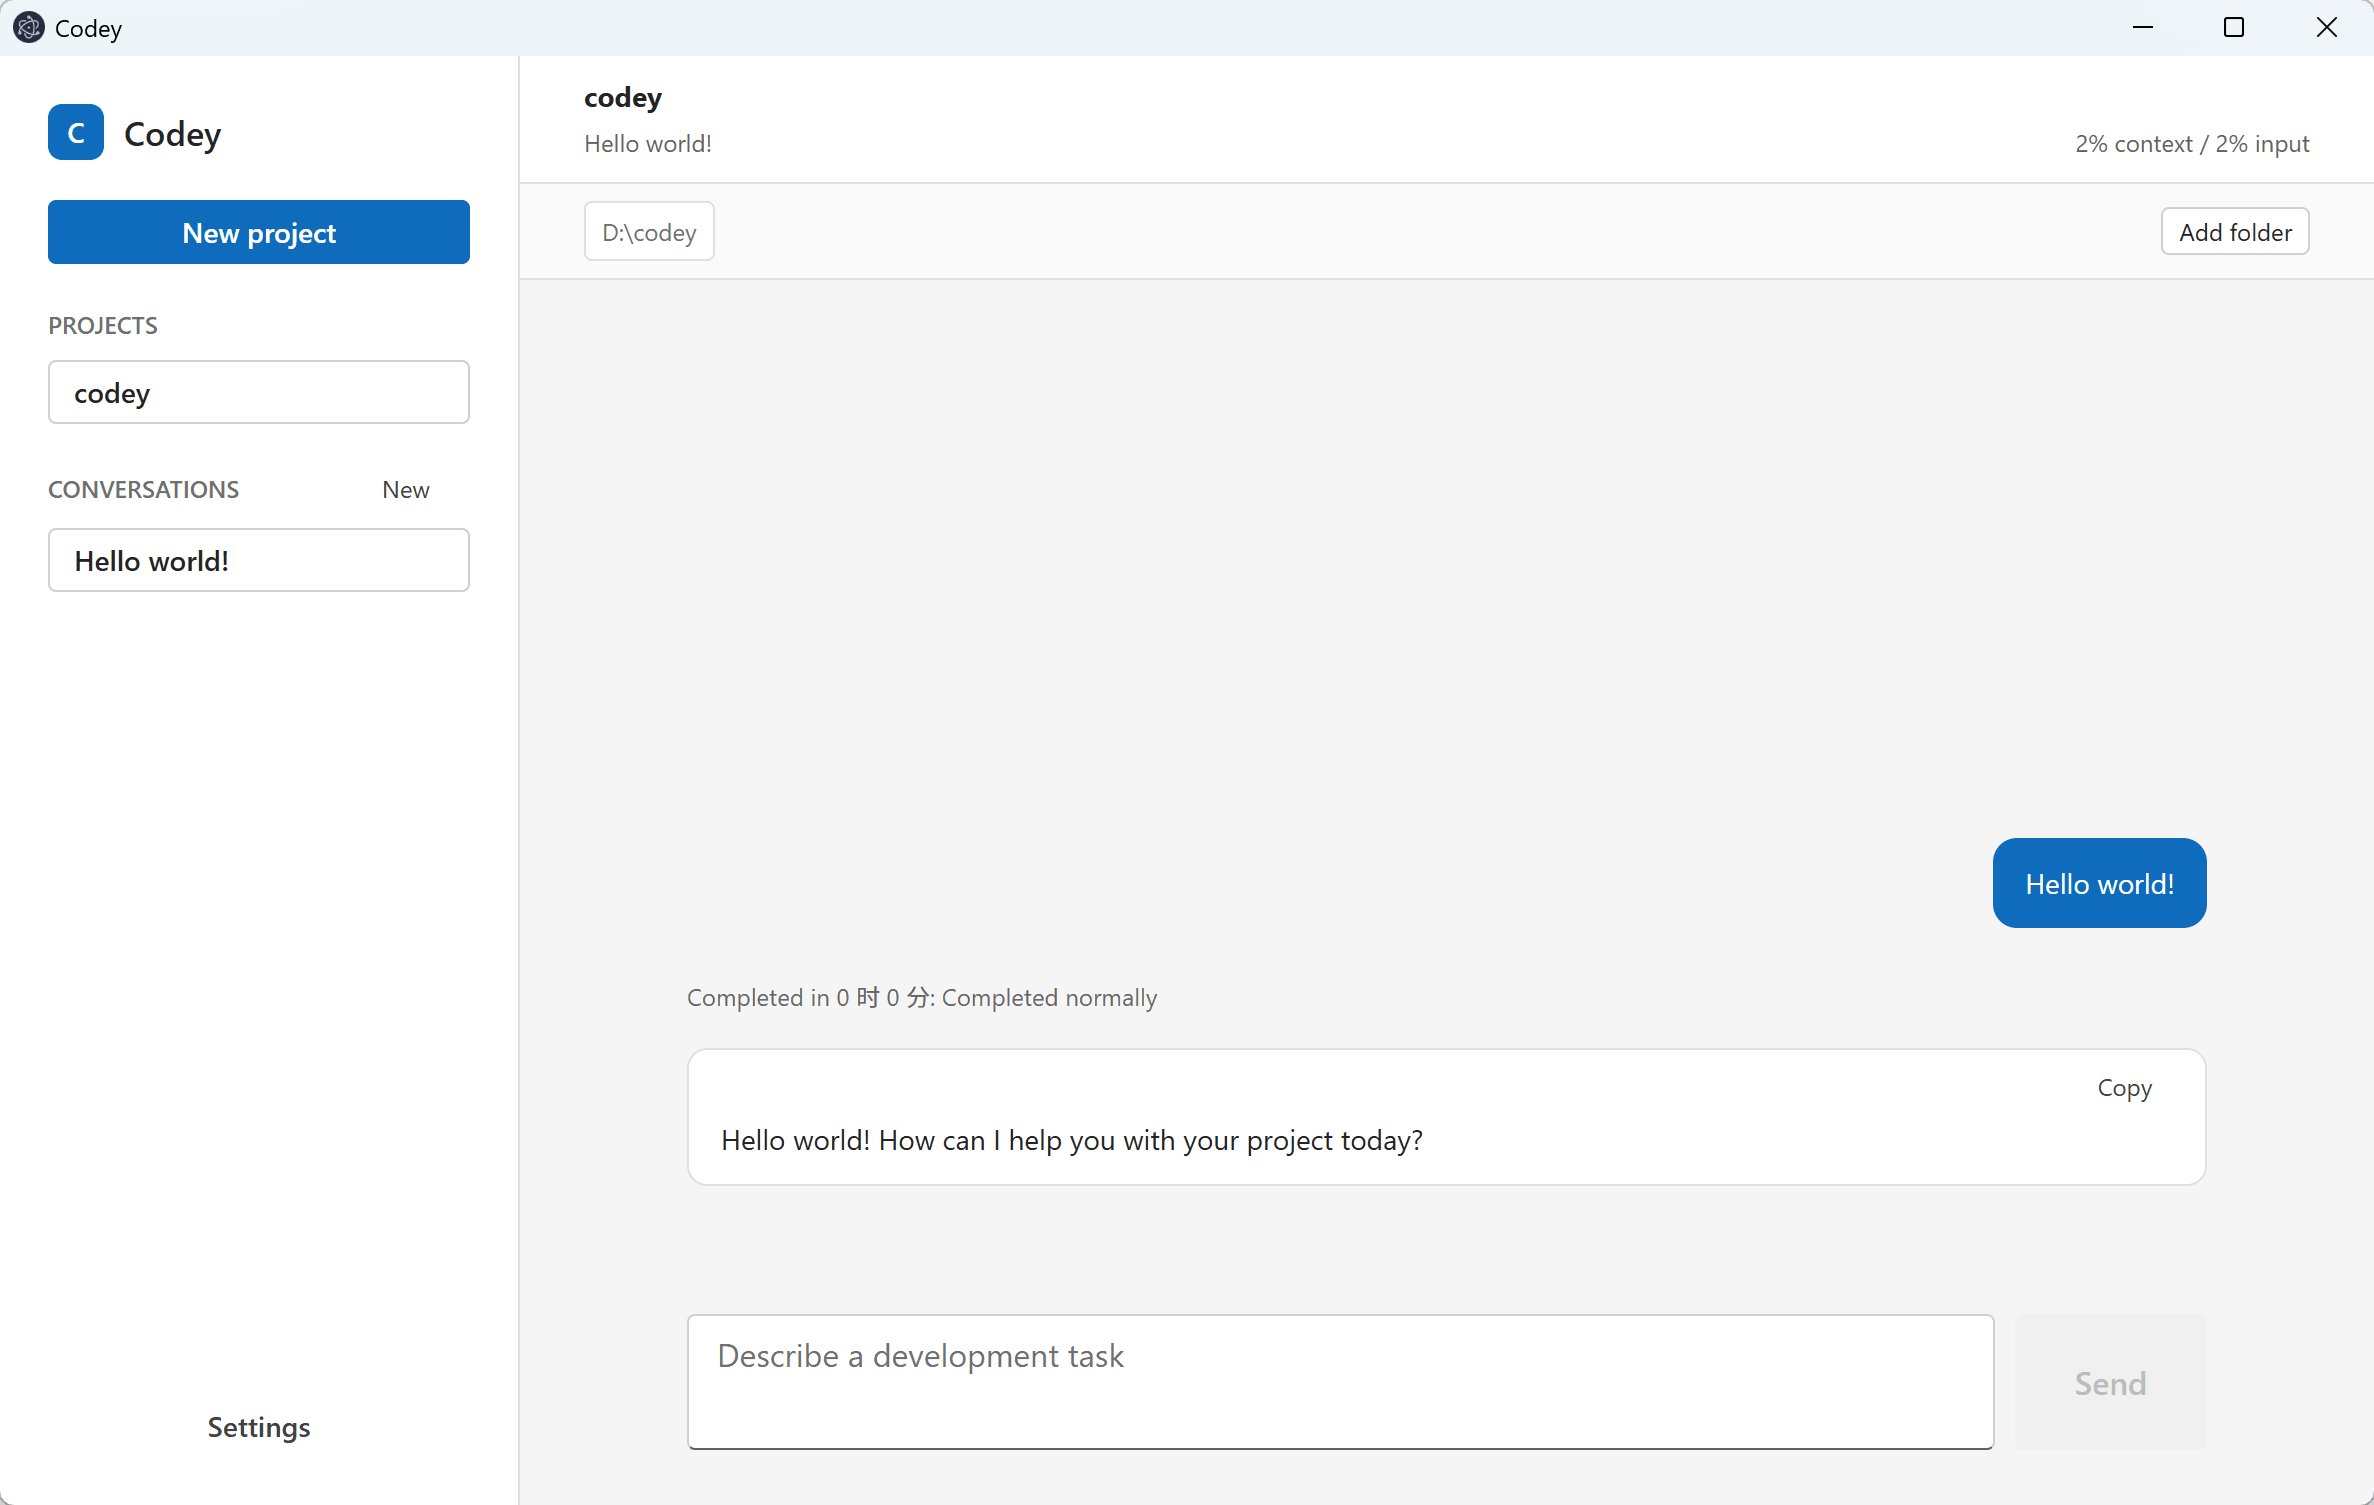
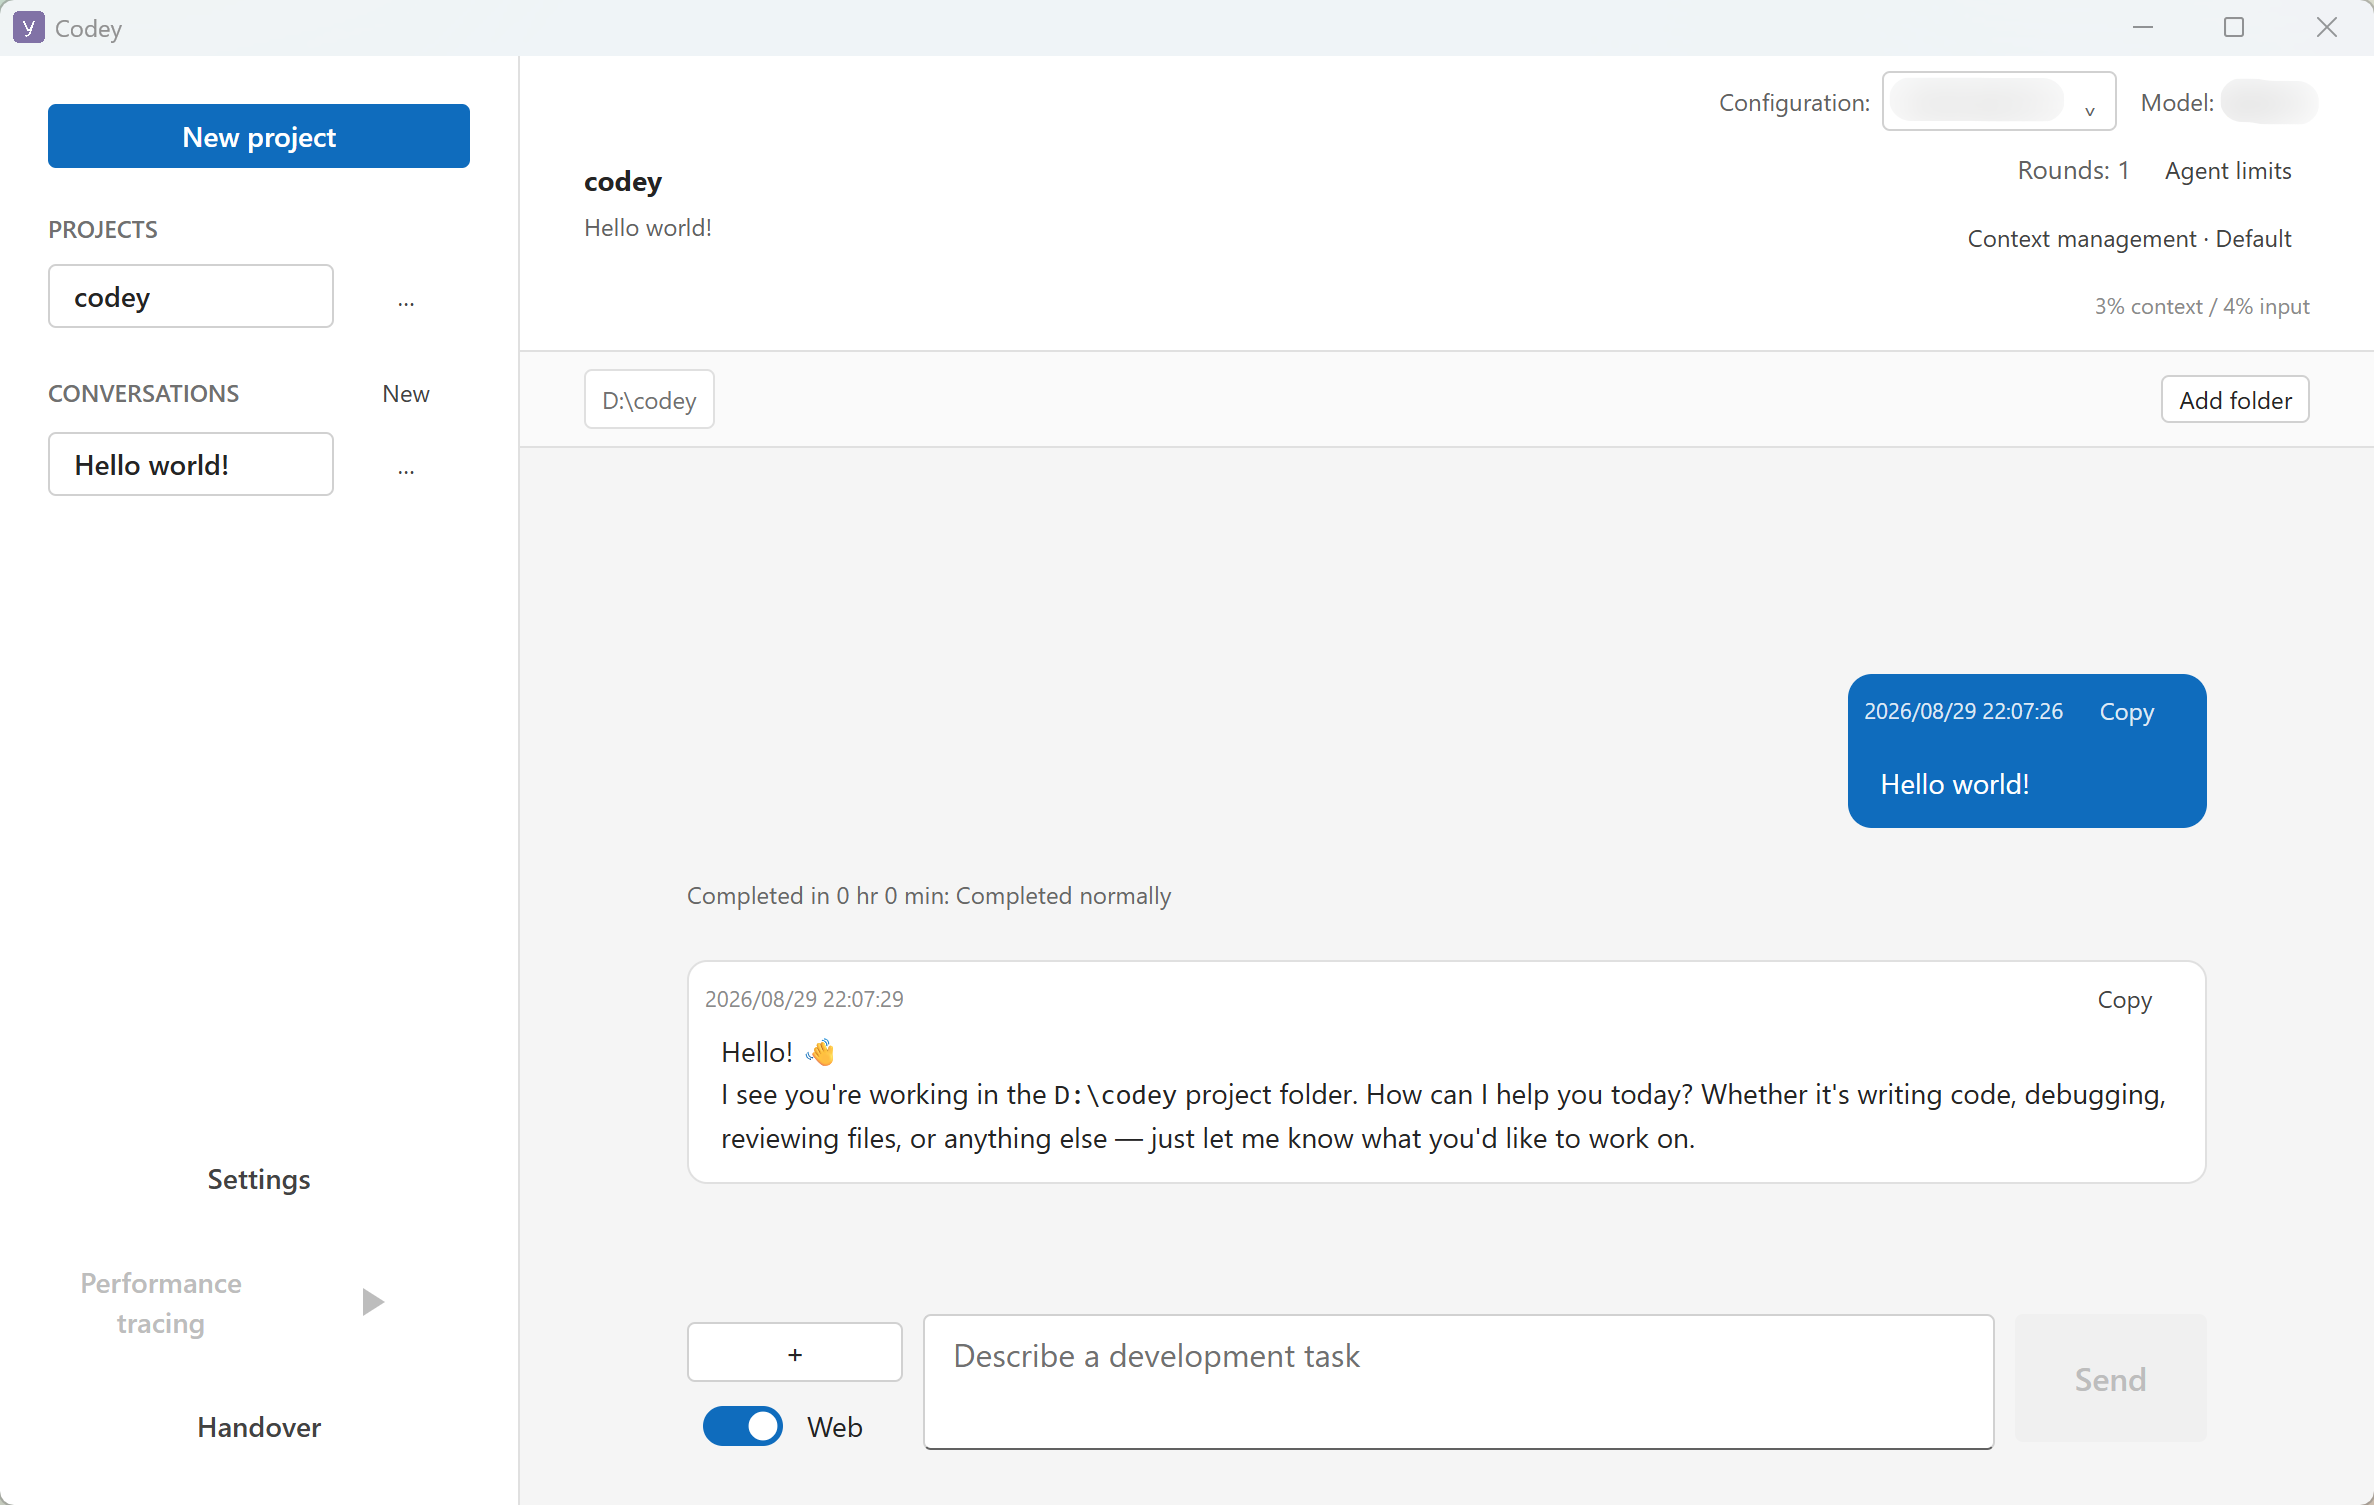
docs(readme): add introduction for project highlights

diff --git a/README.md b/README.md
@@ -1,8 +1,32 @@
 # codey
 
-A desktop app for conversation, work and coding.
+An open, functional desktop agent app for conversation, work and coding.  
 
 <img src="docs/assets/codey_conversation_screenshot.png" style="width: 60dvw; height: auto;" />
+
+## Highlights
+
+### Multimodal Capabilities (Image Input) and Web‑Search Agent Tools
+
+<img src="docs/assets/codey_conversation_image_input_screenshot.png" style="width: 60dvw; height: auto;" />
+
+<small>The uploaded image in the demo above is sourced from: <a target="_blank" href="https://commons.wikimedia.org/wiki/File:Starry_Night_Over_the_Rhone.jpg">commons.wikimedia.org/wiki/File:Starry_Night_Over_the_Rhone.jpg</a>. Per the statement on the linked page, this image is in the public‑domain and is used in this project for demonstration purposes.</small>
+
+### Layered Context‑Management Strategy and Context Debugger
+
+<img src="docs/assets/codey_context_debugger_screenshot.png" style="width: 60dvw; height: auto;" />
+
+### Agent Keeps Running Even When the Device Is Asleep
+
+<img src="docs/assets/codey_keep_computer_awake_screenshot.png" style="width: 60dvw; height: auto;" />
+
+### Freedom to Choose Model Providers and Models
+
+<img src="docs/assets/codey_add_model_config_screenshot.png" style="width: 60dvw; height: auto;" />
+
+### Write Your Preferred Context‑Management Strategies in Rhai
+
+<img src="docs/assets/codey_rhai_screenshot.png" style="width: 60dvw; height: auto;" />
 
 ## Development
 
